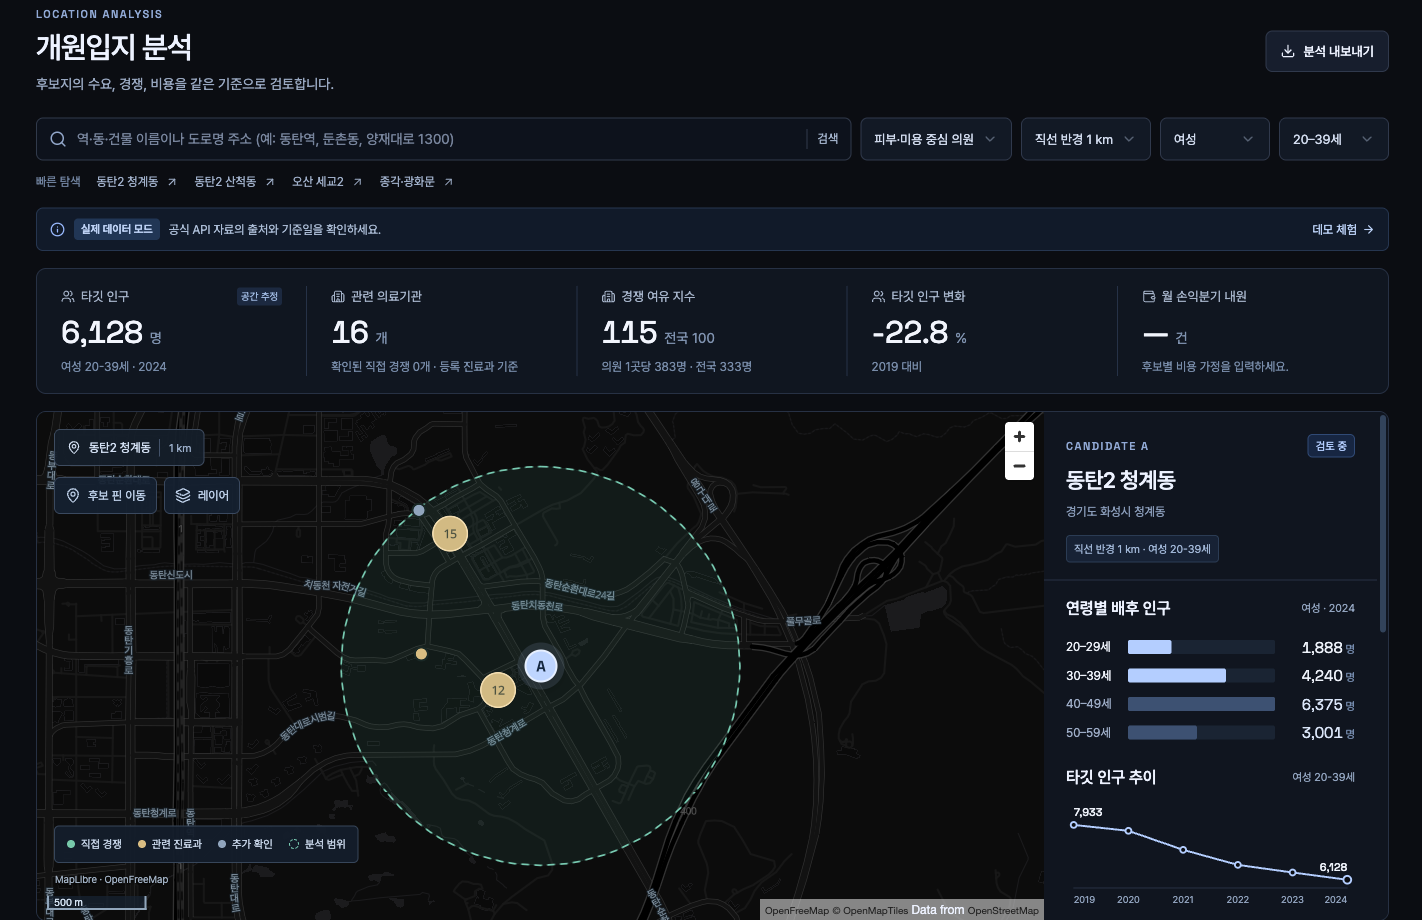
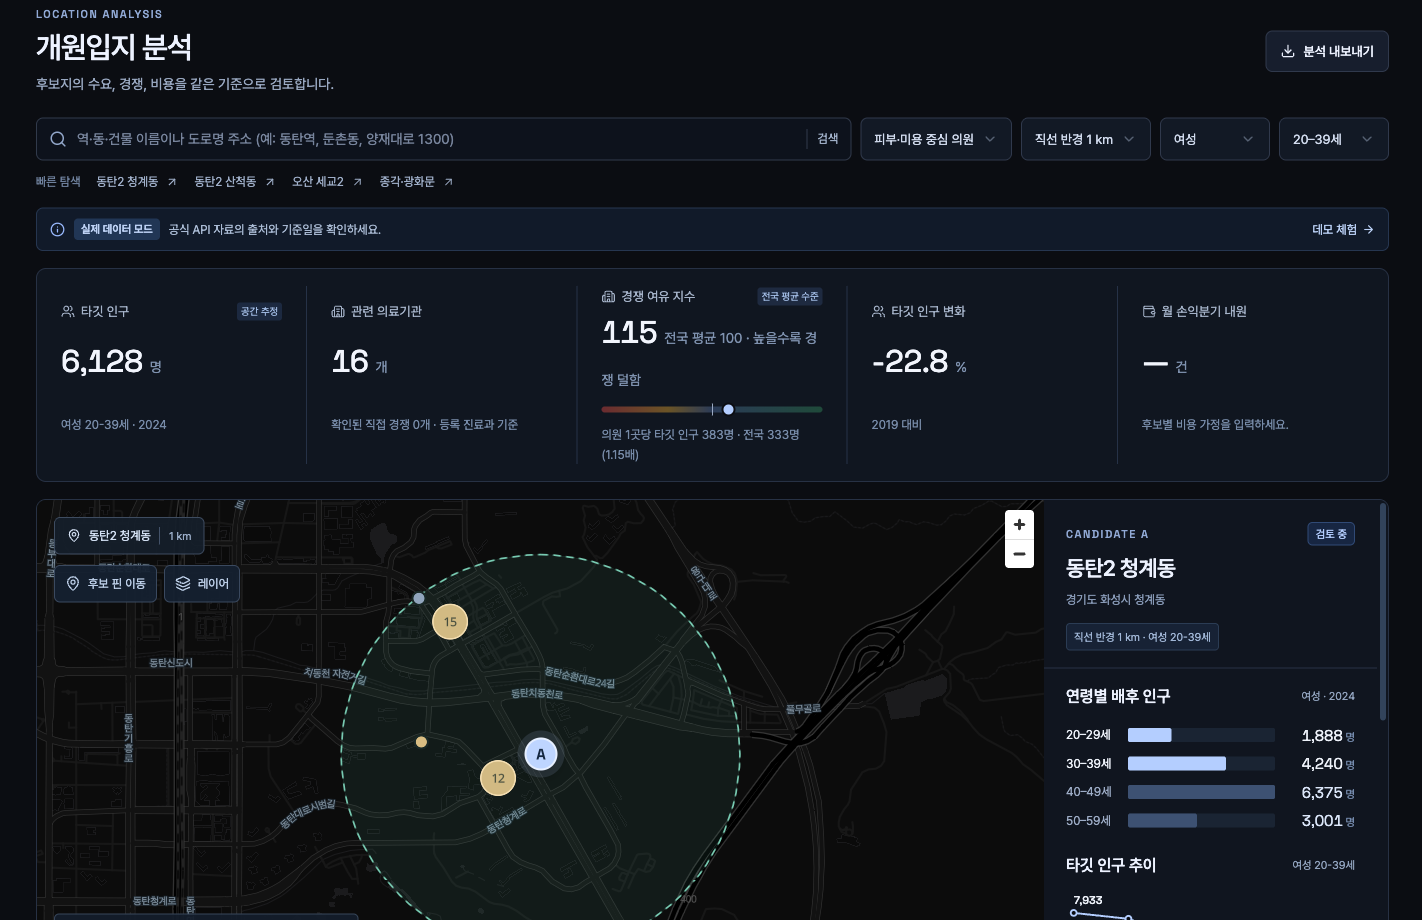
입지분석 슬라이드: 경쟁 여유 지수 판정 문구 추가, 56번 캡처 갱신

diff --git a/index.html b/index.html
@@ -1724,7 +1724,7 @@
         <ul class="wlist" style="font-size:16px;gap:14px">
           <li><b>타깃 인구</b> · 통계청 집계구 단위 인구를 반경과 겹치는 면적만큼 계산 · 5년 전과 비교</li>
           <li><b>관련 의료기관</b> · 심평원 등록 자료 기준 · 개설일 · 의사 수 · 과목별 전문의 수</li>
-          <li><b>경쟁 여유 지수</b> · 의원 1곳당 타깃 인구를 전국 평균(100)과 비교한 비율</li>
+          <li><b>경쟁 여유 지수</b> · 의원 1곳당 타깃 인구를 전국 평균(100)과 비교 · 높을수록 경쟁이 덜합니다</li>
         </ul>
       </div>
       <div class="evshot" style="height:100%"><div class="eh"><b>개원입지 분석</b> · 동탄2 청계동 · 반경 1km · 여성 20–39세<span class="src">메디부스트 · 2026.09 · 실제 화면</span></div>
@@ -1739,11 +1739,11 @@
     <p class="rsub">반경 1km · 여성 20–39세 · 피부 · 미용 중심 의원 기준 · 인구가 비슷해도 방향과 경쟁은 다릅니다</p>
     <div style="flex:1;display:flex;flex-direction:column;justify-content:center">
     <table class="ptable" style="font-size:15px">
-      <tr><th style="width:20%">후보지</th><th style="width:15%">타깃 인구</th><th style="width:17%">5년 변화 (2019→2024)</th><th style="width:16%">관련 의원</th><th style="width:16%">의원 1곳당 인구</th><th>경쟁 여유 지수</th></tr>
-      <tr><td><b>동탄2 청계동</b></td><td>6,128명</td><td>−22.8%</td><td>16곳</td><td>383명</td><td><b>115</b></td></tr>
-      <tr><td><b>동탄2 산척동</b></td><td>6,326명</td><td>+21.5%</td><td>16곳</td><td>395명</td><td><b>119</b></td></tr>
-      <tr><td><b>오산 세교2</b></td><td>2,229명</td><td>+61.8%</td><td>1곳</td><td>2,229명</td><td><b>668</b></td></tr>
-      <tr><td><b>종각 · 광화문</b></td><td>1,542명</td><td>+8.5%</td><td>95곳</td><td>16명</td><td><b>5</b></td></tr>
+      <tr><th style="width:20%">후보지</th><th style="width:15%">타깃 인구</th><th style="width:17%">5년 변화 (2019→2024)</th><th style="width:16%">관련 의원</th><th style="width:14%">의원 1곳당 인구</th><th>경쟁 여유 지수 (높을수록 경쟁 덜함)</th></tr>
+      <tr><td><b>동탄2 청계동</b></td><td>6,128명</td><td>−22.8%</td><td>16곳</td><td>383명</td><td><b>115</b> · 전국 평균 수준</td></tr>
+      <tr><td><b>동탄2 산척동</b></td><td>6,326명</td><td>+21.5%</td><td>16곳</td><td>395명</td><td><b>119</b> · 전국 평균 수준</td></tr>
+      <tr><td><b>오산 세교2</b></td><td>2,229명</td><td>+61.8%</td><td>1곳</td><td>2,229명</td><td><b>668</b> · 경쟁 덜함</td></tr>
+      <tr><td><b>종각 · 광화문</b></td><td>1,542명</td><td>+8.5%</td><td>95곳</td><td>16명</td><td><b>5</b> · 경쟁 매우 치열</td></tr>
       <tr><td style="color:#5b6b84">전국 평균</td><td style="color:#5b6b84">·</td><td style="color:#5b6b84">·</td><td style="color:#5b6b84">·</td><td style="color:#5b6b84">333명</td><td style="color:#5b6b84">100</td></tr>
     </table>
     <ul class="wlist" style="font-size:15px;gap:10px;margin-top:22px">
